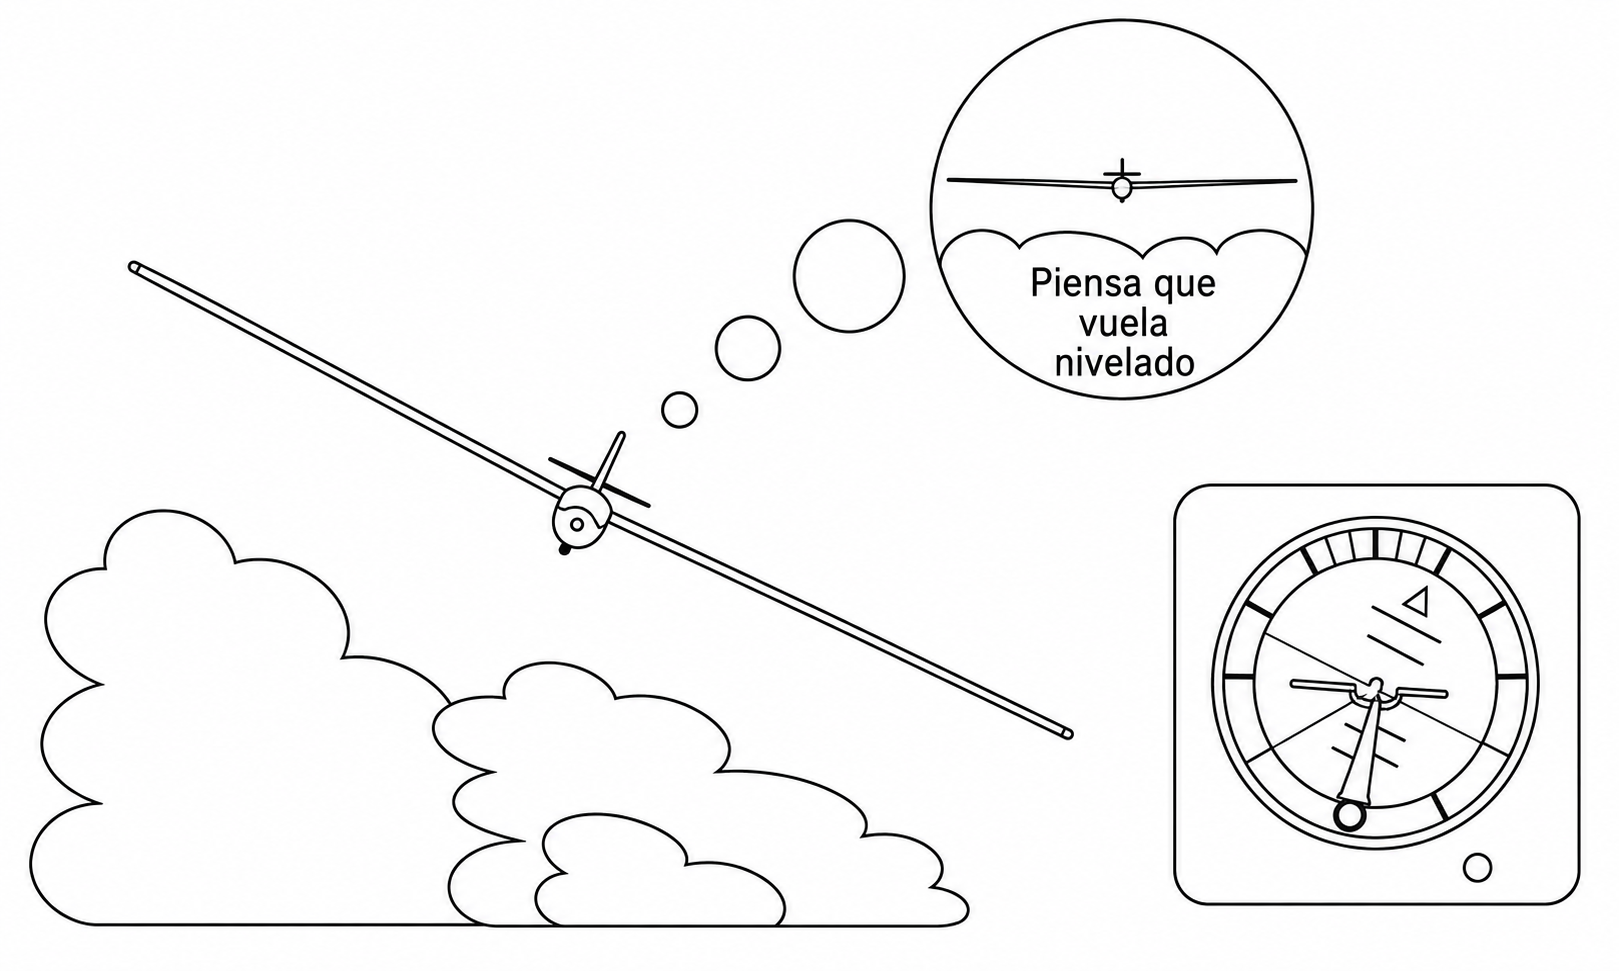
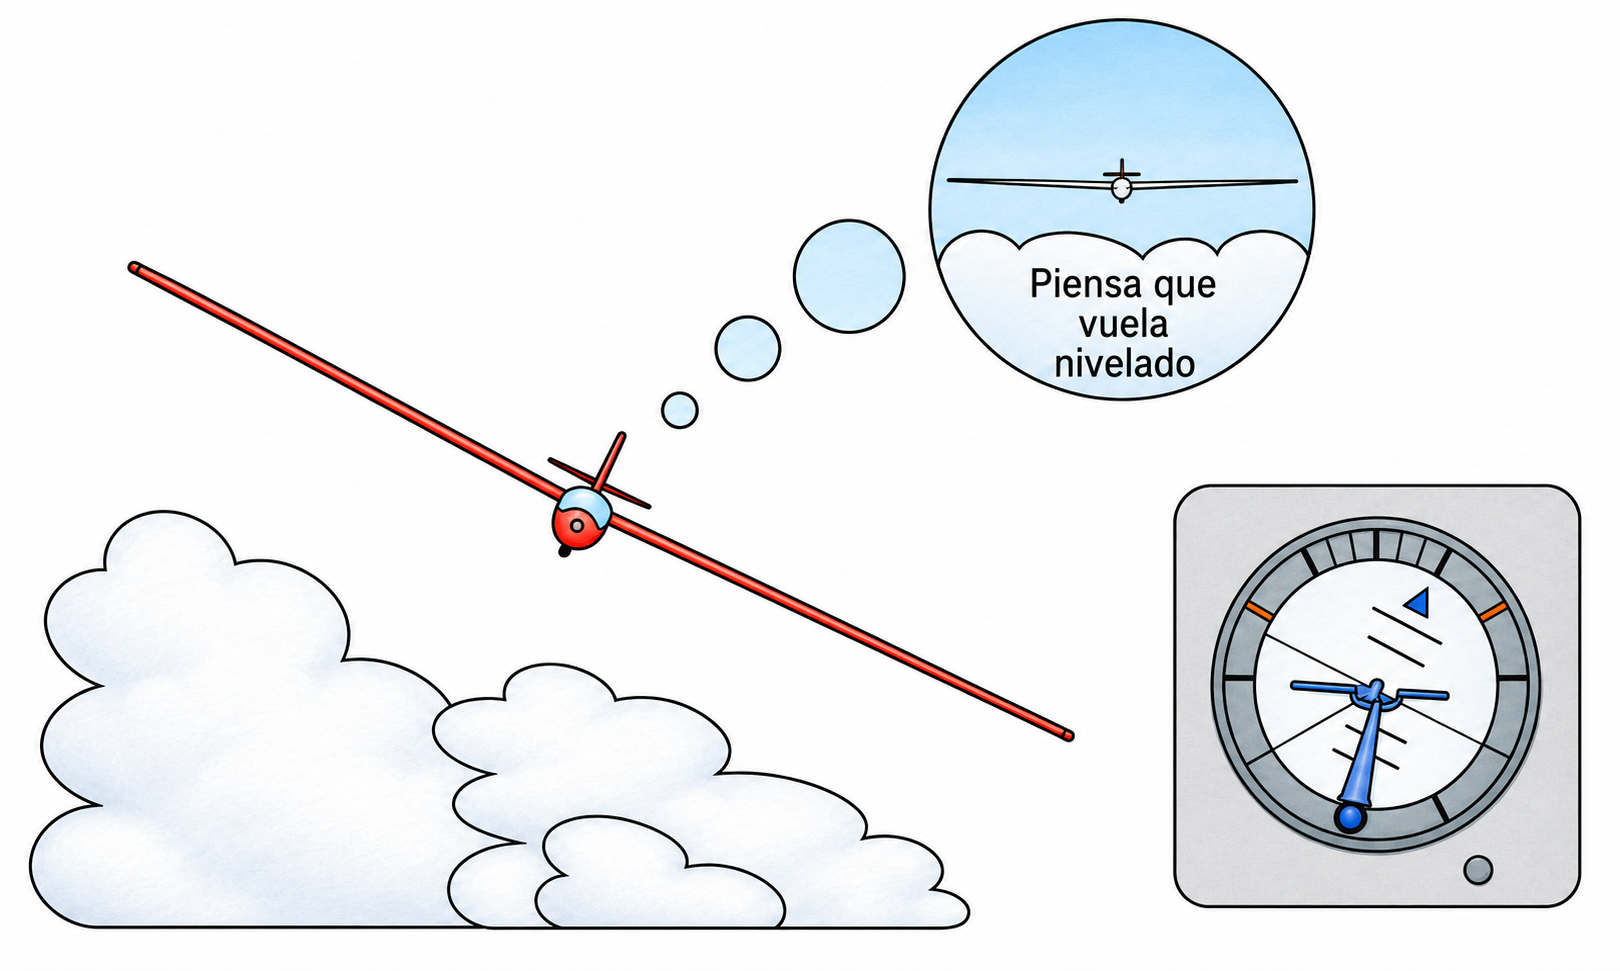
fix(02-factores-humanos): colorear la figura de ilusiones ópticas
Era línea negra sobre blanco y todo pesaba igual: el planeador descendiendo,
las nubes y el horizonte artificial competían entre sí. El planeador pasa a
rojo, el cielo del bocadillo a azul y el instrumento a gris con la barra de
actitud en azul, de modo que la escena se separa del instrumento a la primera.

No cambia lo que ilustra.

diff --git a/02-factores-humanos/CHANGELOG-02.md b/02-factores-humanos/CHANGELOG-02.md
@@ -16,6 +16,10 @@ rompe la compilación.
 
 ## [En curso]
 
+### Maqueta y producción
+
+* **cap02, ilusiones ópticas** — la figura era línea negra sobre blanco y todo pesaba lo mismo: el planeador descendiendo, las nubes y el horizonte artificial competían entre sí. Ahora va en color, con el planeador en rojo, el cielo del bocadillo en azul y el instrumento en gris con la barra de actitud azul, de modo que la escena se separa del instrumento a la primera. No cambia lo que ilustra.
+
 ## [1.0-rc.10] — 28 de julio de 2026
 
 **Qué releer:** **cap02, apartado de alcohol** (el recuadro de Normativa y su línea del resumen). Se corrige la referencia del AMC y se completa la regla con un tercer límite que faltaba. Las cifras que ya estaban —8 horas y 0,2 g/l— no cambian.
